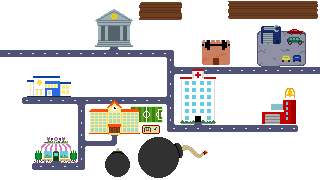
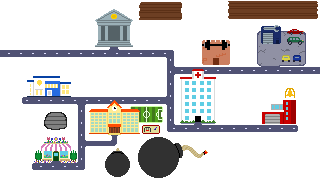
Add rat

Changed region(s): [[0.125, 0.6111, 0.2188, 0.7222]]

diff --git a/jerboa_jam_2026/src/main.cpp b/jerboa_jam_2026/src/main.cpp
@@ -283,7 +283,16 @@ public:
 					if (VectorContains(location.Get<Location>().entities, choice)) {
 						IncrementCombo();
 						IncrementScore();
-						ctx().audio.Play("success", 0.3f, 0, RandomNumber(0.5f, 1.2f));
+						if (choice == "rat") {
+							ctx().audio.Play("rat", 0.3f, 0, RandomNumber(0.5f, 1.2f));
+						} else if (choice == "robber" &&
+								   VectorContains(
+									   location.Get<Location>().entities, std::string("cop")
+								   )) {
+							ctx().audio.Play("ow", 0.3f, 0, RandomNumber(0.5f, 1.2f));
+						} else {
+							ctx().audio.Play("success", 0.3f, 0, RandomNumber(0.5f, 1.2f));
+						}
 					} else {
 						ctx().audio.Play("ow", 0.3f, 0, RandomNumber(0.5f, 1.2f));
 						ResetCombo();
